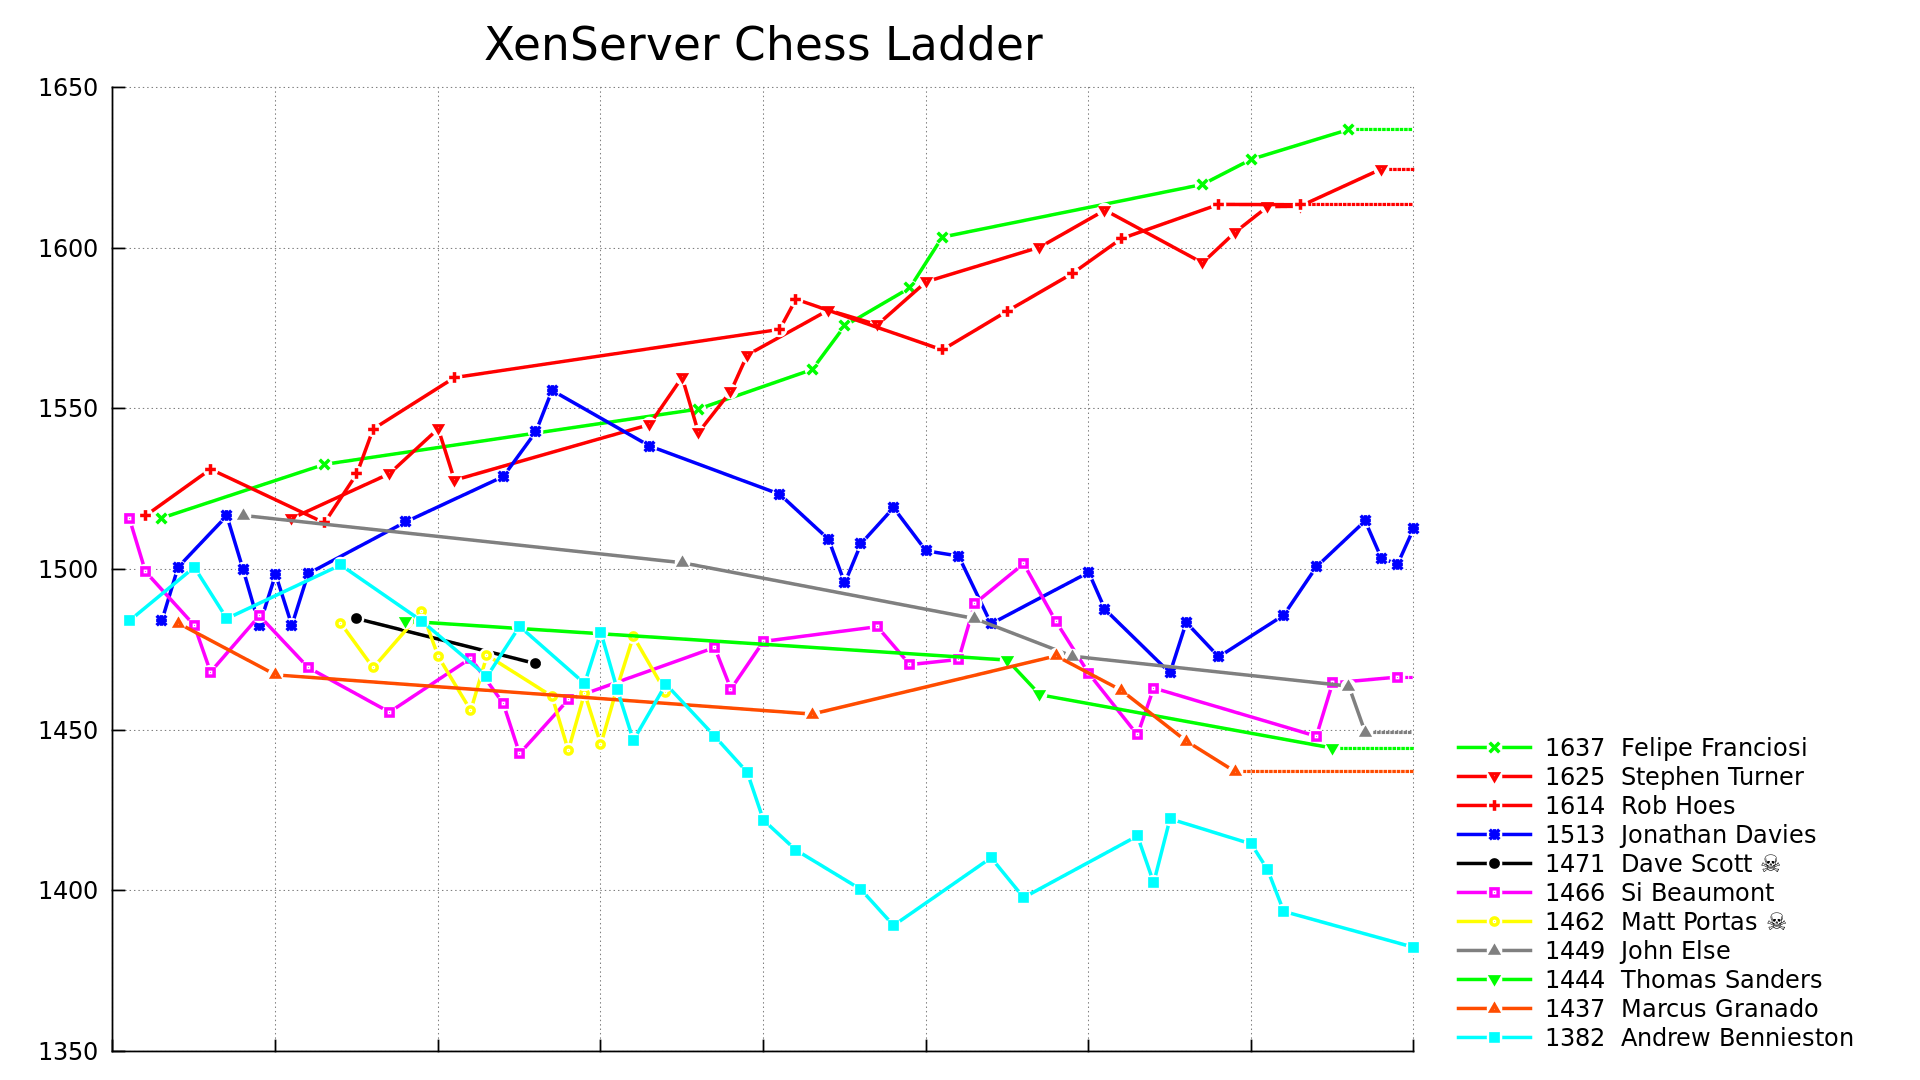
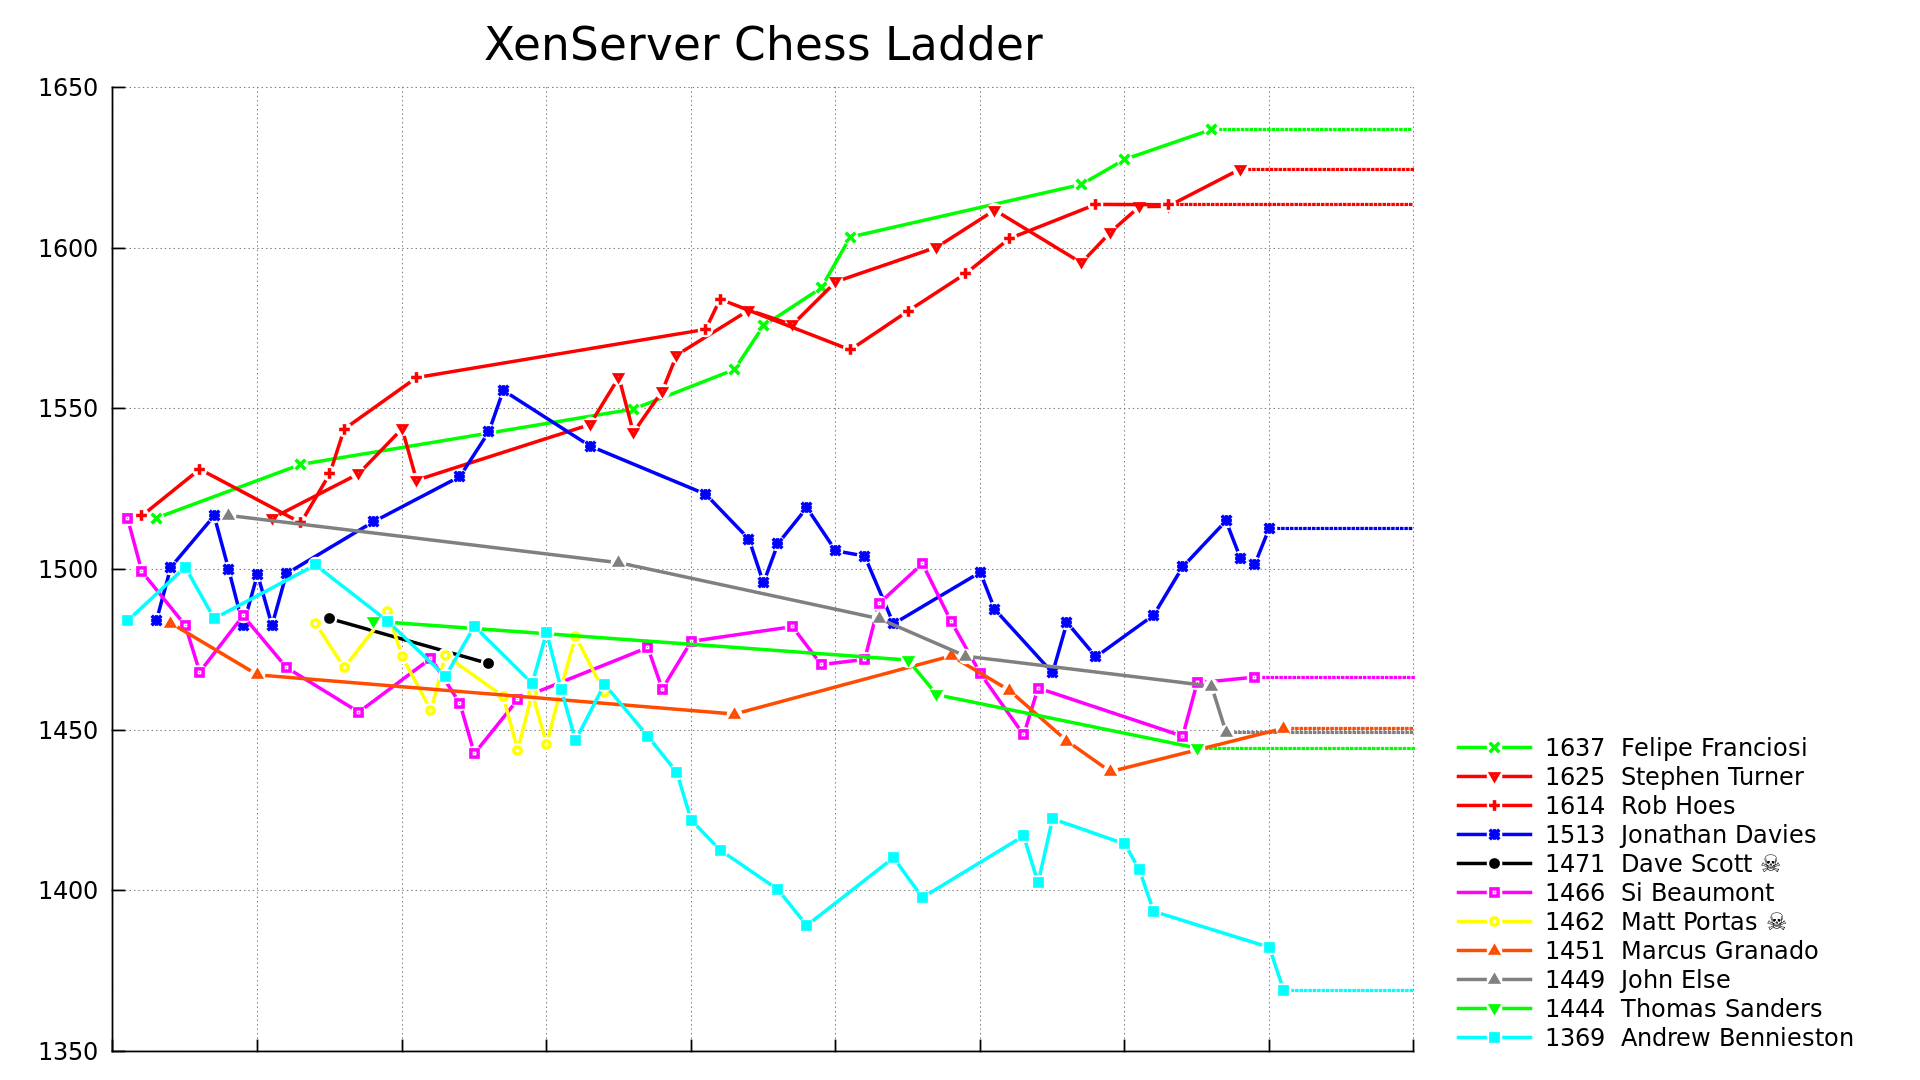
Travis build 159 pushed to gh-pages

diff --git a/index.md b/index.md
@@ -11,16 +11,17 @@ layout: default
      6.  Dave Scott                      ☠  1471  (0 / 2)
      7.  Si Beaumont                        1466  (11.5 / 26)
      8.  Matt Portas                     ☠  1462  (5 / 13)
-     9.  John Else                          1449  (1 / 6)
-    10.  Thomas Sanders                     1444  (0 / 4)
-    11.  Marcus Granado                     1437  (1 / 7)
-    12.  Andrew Bennieston                  1382  (8 / 27)
+     9.  Marcus Granado                     1451  (2 / 8)
+    10.  John Else                          1449  (1 / 6)
+    11.  Thomas Sanders                     1444  (0 / 4)
+    12.  Andrew Bennieston                  1369  (8 / 28)
 ### Suggested games (least played)
           Thomas Sanders - Marcus Granado
           Stephen Turner - Bill Briscombe
                John Else - Andrew Bennieston
         Felipe Franciosi - Si Beaumont
 ### Games
+    2014-03-03:       Marcus Granado - Andrew Bennieston         1 - 0
     2014-02-28:      Jonathan Davies - Andrew Bennieston         1 - 0
     2014-02-24:      Jonathan Davies - Si Beaumont             0.5 - 0.5
     2014-02-21:      Jonathan Davies - Stephen Turner            0 - 1
